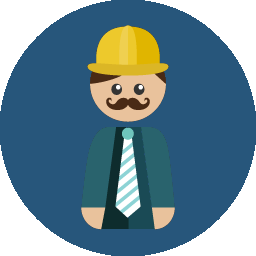
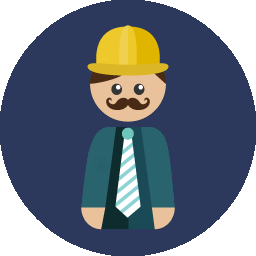
final color scheme change

diff --git a/index.html b/index.html
@@ -115,17 +115,17 @@
     <div>
     <ul class="inline-block">
 
-        <li class="list-inline-item"><i class="fab fa-python fa-3x" style="color:#27567b"></i></li>
-        <li class="list-inline-item"><i class="fab fa-java fa-3x" style="color:#27567b"></i></li>
-        <li class="list-inline-item"><i class="fab fa-js fa-3x" style="color:#27567b"></i></li>
-        <li class="list-inline-item"><i class="fab fa-php fa-3x" style="color:#27567b"></i></li>
-        <li class="list-inline-item"><i class="fab fa-html5 fa-3x" style="color:#27567b"></i></li>
-        <li class="list-inline-item"><i class="fab fa-css3 fa-3x" style="color:#27567b"></i></li>
+        <li class="list-inline-item"><i class="fab fa-python fa-3x" style="color:#2c395c"></i></li>
+        <li class="list-inline-item"><i class="fab fa-java fa-3x" style="color:#2c395c"></i></li>
+        <li class="list-inline-item"><i class="fab fa-js fa-3x" style="color:#2c395c"></i></li>
+        <li class="list-inline-item"><i class="fab fa-php fa-3x" style="color:#2c395c"></i></li>
+        <li class="list-inline-item"><i class="fab fa-html5 fa-3x" style="color:#2c395c"></i></li>
+        <li class="list-inline-item"><i class="fab fa-css3 fa-3x" style="color:#2c395c"></i></li>
 
 
-        <li class="list-inline-item"><i class="fab fa-node-js fa-3x" style="color:#27567b"></i></li>
-        <li class="list-inline-item"><i class="fab fa-angular fa-3x" style="color:#27567b"></i></li>
-        <li class="list-inline-item"><i class="fab fa-git-square fa-3x" style="color:#27567b"></i></li>
+        <li class="list-inline-item"><i class="fab fa-node-js fa-3x" style="color:#2c395c"></i></li>
+        <li class="list-inline-item"><i class="fab fa-angular fa-3x" style="color:#2c395c"></i></li>
+        <li class="list-inline-item"><i class="fab fa-git-square fa-3x" style="color:#2c395c"></i></li>
 
 
     </ul>
@@ -161,7 +161,7 @@
         <div class="text-center">
 
         <h3> Outfit Helper <i class="fab fa-python fa-1x"></i></h3>
-        <p>Daily weather reminder sent via SMS as well as a suggestion of clothes to wear given the current weather conditions. &ensp; <a href="https://github.com/TuckerMassad/OutfitHelper"><button style="color:#27567b"class="fab fa-github "></button></a></p>
+        <p>Daily weather reminder sent via SMS as well as a suggestion of clothes to wear given the current weather conditions. &ensp; <a href="https://github.com/TuckerMassad/OutfitHelper"><button style="color:#2c395c"class="fab fa-github "></button></a></p>
         <br>
 
         <!--
@@ -171,11 +171,11 @@
         -->
 
         <h3> Mersenne Twister <i class="fab fa-python fa-1x"></i></h3>
-        <p>Pseudo-Random Number Generator implemented in Python including a basic password cracker.  &ensp; <a href="https://github.com/TuckerMassad/MersenneTwister"><button style="color:#27567b"class="fab fa-github"></button></a></p>
+        <p>Pseudo-Random Number Generator implemented in Python including a basic password cracker.  &ensp; <a href="https://github.com/TuckerMassad/MersenneTwister"><button style="color:#2c395c"class="fab fa-github"></button></a></p>
         <br>
 
         <h3> Set Game <i class="fab fa-java fa-1x"></i></h3>
-        <p>Real-time card game of Set implemented in Java.  &ensp; <a href="https://github.com/TuckerMassad/SetGame"><button style="color:#27567b"class="fab fa-github"></button></a></p>
+        <p>Real-time card game of Set implemented in Java.  &ensp; <a href="https://github.com/TuckerMassad/SetGame"><button style="color:#2c395c"class="fab fa-github"></button></a></p>
         </div>
       </div>
     </section>

diff --git a/css/styling.css b/css/styling.css
@@ -61,24 +61,24 @@ hr.reg-light {
 }
 
 hr.blue-light {
-  border-color: #27567b;
+  border-color: #2c395c;
 }
 
 hr.star-light:after {
   color: #fff;
-  background-color: #b63b3b;
+  background-color: #a92717;
 }
 
 hr.star-dark {
-  border-color: #27567b;
+  border-color: #2c395c;
 }
 
 hr.star-dark-sm {
-  border-color: #27567b;
+  border-color: #2c395c;
 }
 
 hr.star-dark:after {
-  color: #b63b3b;
+  color: #a92717;
   background-color: #fff;
 }
 
@@ -146,7 +146,7 @@ section h2 {
 }
 
 #mainNav .navbar-nav li.nav-item a.nav-link:hover {
-  color: #b63b3b;
+  color: #a92717;
 }
 
 #mainNav .navbar-nav li.nav-item a.nav-link:active, #mainNav .navbar-nav li.nav-item a.nav-link:focus {
@@ -154,7 +154,7 @@ section h2 {
 }
 
 #mainNav .navbar-nav li.nav-item a.nav-link.active {
-  color: #b63b3b;
+  color: #a92717;
 }
 
 #mainNav .navbar-toggler {
@@ -179,11 +179,11 @@ section h2 {
   }
   #mainNav .navbar-nav > li.nav-item > a.nav-link.active {
     color: #fff;
-    background: #b63b3b;
+    background: #a92717;
   }
   #mainNav .navbar-nav > li.nav-item > a.nav-link.active:active, #mainNav .navbar-nav > li.nav-item > a.nav-link.active:focus, #mainNav .navbar-nav > li.nav-item > a.nav-link.active:hover {
     color: #fff;
-    background: #b63b3b;
+    background: #a92717;
   }
   #mainNav.navbar-shrink {
     padding-top: 0.5rem;
@@ -354,7 +354,7 @@ header.masthead h2 {
 }
 
 .floating-label-form-group-with-focus label {
-  color: #b63b3b;
+  color: #a92717;
 }
 
 form .row:first-child .floating-label-form-group {
@@ -364,20 +364,20 @@ form .row:first-child .floating-label-form-group {
 .footer {
   padding-top: 5rem;
   padding-bottom: 5rem;
-  background-color: #27567b;
+  background-color: #2c395c;
   color: #fff;
 }
 
 .copyright {
-  background-color: #193851;
+  background-color: #18354c;
 }
 
 a {
-  color: #b63b3b;
+  color: #a92717;
 }
 
 a:focus, a:hover, a:active {
-  color: #b63b3b;
+  color: #a92717;
 }
 
 .btn {
@@ -385,37 +385,37 @@ a:focus, a:hover, a:active {
 }
 
 .bg-primary {
-  background-color: #b63b3b !important;
+  background-color: #a92717 !important;
 }
 
 .bg-secondary {
-  background-color: #27567b !important;
+  background-color: #2c395c !important;
 }
 
 .text-primary {
-  color: #b63b3b !important;
+  color: #a92717 !important;
 }
 
 .text-secondary {
-  color: #27567b !important;
+  color: #2c395c !important;
 }
 
 .btn-primary {
-  background-color: #b63b3b;
-  border-color: #b63b3b;
+  background-color: #a92717;
+  border-color: #a92717;
 }
 
 .btn-primary:hover, .btn-primary:focus, .btn-primary:active {
-  background-color: #b63b3b;
-  border-color: #b63b3b;
+  background-color: #a92717;
+  border-color: #a92717;
 }
 
 .btn-secondary {
-  background-color: #27567b;
-  border-color: #27567b;
+      background-color: #2c395c;
+  border-color: #2c395c;
 }
 
 .btn-secondary:hover, .btn-secondary:focus, .btn-secondary:active {
-  background-color: #193851;
-  border-color: #193851;
+  background-color: #18354c;
+  border-color: #18354c;
 }
